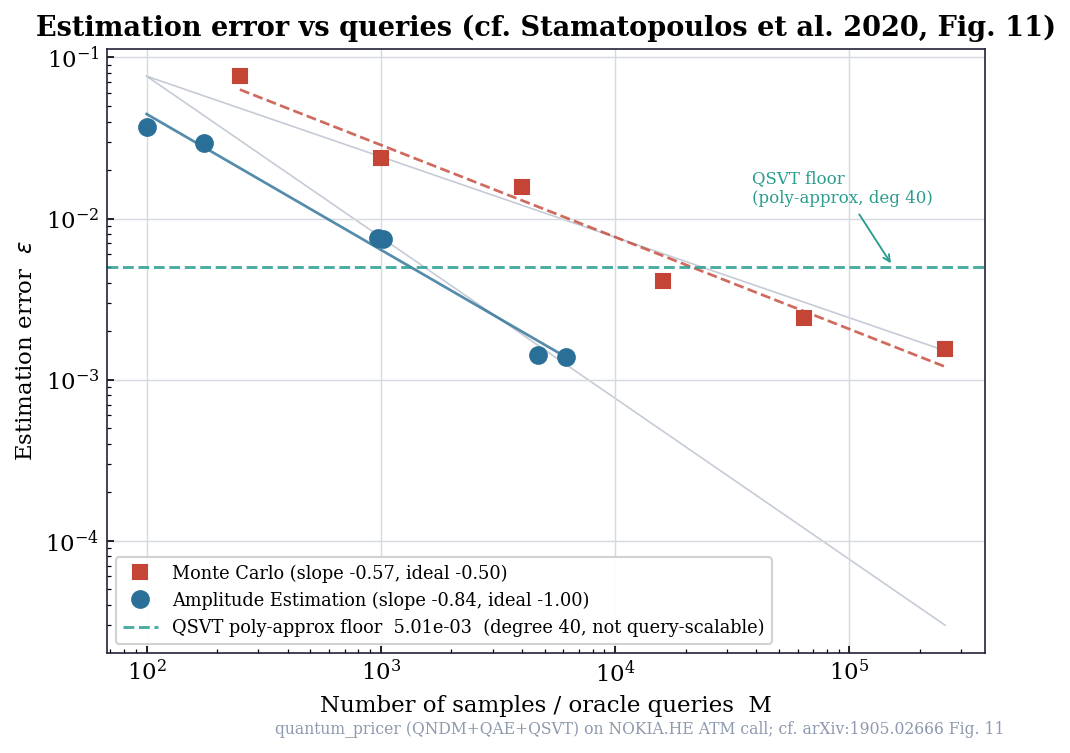
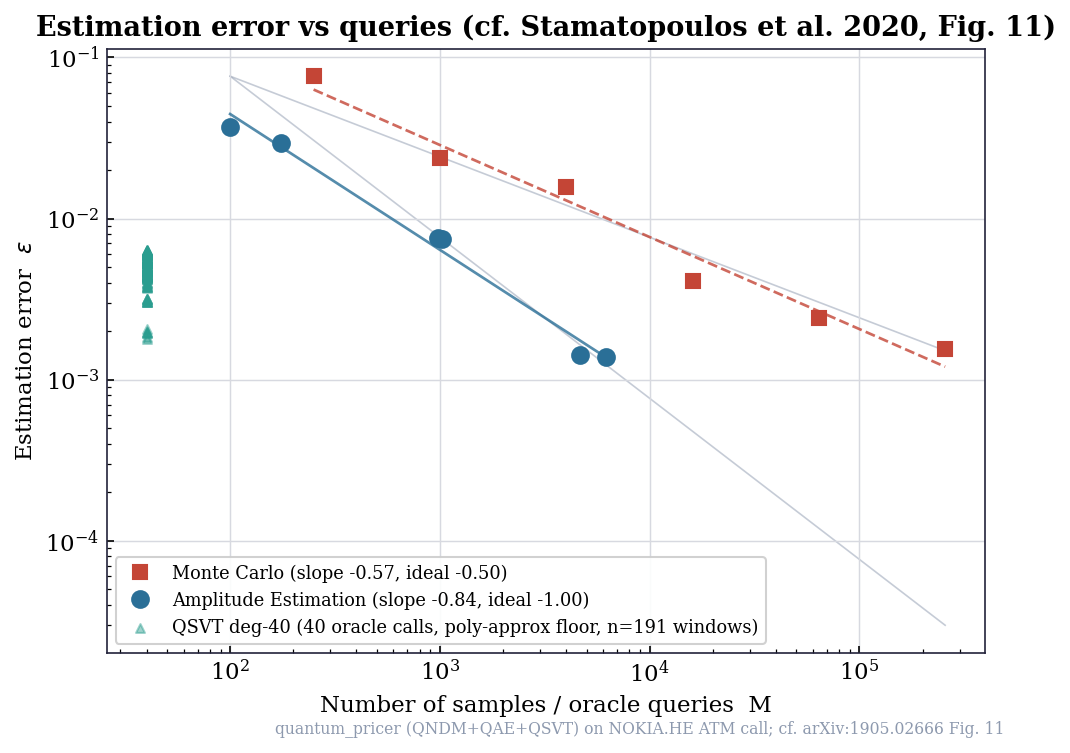
Update

diff --git a/results/fig11_error_vs_queries.py b/results/fig11_error_vs_queries.py
@@ -33,15 +33,20 @@ def _fit(xs, ys):
     return float(np.polyfit(np.log(xs), np.log(ys), 1)[0]) if len(xs) >= 2 else float("nan")
 
 
-def _qsvt_floor_from_csv():
-    """Read QSVT mean |error| from the already-computed verify_backtest.csv.
-    No simulation needed — this is the polynomial-approximation floor measured
-    across 191 real-circuit windows."""
+def _qsvt_points_from_csv():
+    """Load (oracle_queries, |error|) for every QSVT window from
+    verify_backtest.csv — no simulation needed.
+
+    QSVT (degree=40, use_qae=False) applies the controlled phase oracle
+    exactly (degree) = 40 times per circuit (len(phis)-1 = 40 oracle calls).
+    Each of the 191 windows is a real circuit run at a different S0/sigma,
+    giving a genuine scatter of errors at x = 40 oracle queries."""
     import csv as _csv
     path = os.path.join(os.path.dirname(__file__), "verify_backtest.csv")
     rows = list(_csv.DictReader(open(path)))
     errs = [abs(float(r["QSVT"]) - float(r["exact"])) for r in rows]
-    return float(sum(errs) / len(errs))
+    x = 40   # oracle calls = degree (len(phis) - 1 = 40)
+    return x, errs
 
 
 def main():
@@ -91,9 +96,13 @@ def main():
         ax.loglog(qae_th_x, qae_th_y, ":", color=style.PALETTE["accent"], linewidth=1.6,
                   label=r"AE ideal $\varepsilon=\pi/2M$ (slope -1.00)")
 
-    # QSVT: polynomial-approximation floor — not query-scalable.
-    # No simulation needed; value read from verify_backtest.csv (191 real windows).
-    qsvt_floor = _qsvt_floor_from_csv()
+    # QSVT: 191 individual scatter points from verify_backtest.csv.
+    # x = 40 oracle calls (degree = oracle calls for QSVT degree=40, len(phis)-1 = 40).
+    # No simulation needed — data already computed.
+    qsvt_x, qsvt_errs = _qsvt_points_from_csv()
+    ax.scatter([qsvt_x] * len(qsvt_errs), qsvt_errs,
+               marker="^", color=style.PALETTE["accent"], s=18, alpha=0.45, zorder=3,
+               label=f"QSVT deg-40 (40 oracle calls, poly-approx floor, n={len(qsvt_errs)} windows)")
 
     # Reference slope guides (-1 and -1/2) anchored to the data span
     all_x = list(mc_x) + list(qae_emp_x) + list(qae_th_x)
@@ -105,14 +114,6 @@ def main():
             yref = ymax * (xref / x0) ** slope
             ax.loglog(xref, yref, color=style.PALETTE["muted"], linewidth=0.8,
                       alpha=0.5, zorder=0)
-        # QSVT horizontal floor line
-        ax.axhline(qsvt_floor, color=style.PALETTE["accent"], linewidth=1.4,
-                   linestyle="--", alpha=0.85, zorder=2,
-                   label=f"QSVT poly-approx floor  {qsvt_floor:.2e}  (degree 40, not query-scalable)")
-        ax.annotate("QSVT floor\n(poly-approx, deg 40)",
-                    xy=(x1 * 0.6, qsvt_floor), xytext=(x1 * 0.15, qsvt_floor * 2.5),
-                    fontsize=8, color=style.PALETTE["accent"],
-                    arrowprops=dict(arrowstyle="->", color=style.PALETTE["accent"], lw=0.9))
 
     ax.set_xlabel("Number of samples / oracle queries  M")
     ax.set_ylabel(r"Estimation error  $\varepsilon$")
@@ -131,7 +132,9 @@ def main():
               "(empirical, finite-shot)")
     if qae_th_x:
         print("QAE  saturated -> theory line pi/2M overlaid")
-    print(f"QSVT floor: {qsvt_floor:.3e}  (from verify_backtest.csv, 191 windows)")
+    print(f"QSVT: {len(qsvt_errs)} points at x={qsvt_x}  "
+          f"err range [{min(qsvt_errs):.3e}, {max(qsvt_errs):.3e}]  "
+          f"(from verify_backtest.csv)")
     print("[saved]", OUT)
 
 

diff --git a/PITCH.md b/PITCH.md
@@ -1,0 +1,23 @@
+# Pitch — "The Madness of People Is Quantum"
+### Junction Helsinki × OP Pohjola — Quantum Computing for Finance
+**2-minute startup pitch (~280 words)**
+
+---
+
+**Here is the problem.** Every bank in Europe prices derivatives using Monte Carlo simulation. You throw a million random price paths at a contract, average the payoffs, discount back. It works — but it is slow, and slow is expensive. To halve your pricing error you need to quadruple your compute. That is not a software problem. That is a physics limit on classical randomness.
+
+**Here is the market.** The global derivatives market is notional $700 trillion. The instruments that are genuinely hard to price — **Asian options, barrier options, path-dependent contracts** — are also the most profitable, because the bid-ask spread rewards whoever can price them faster and more precisely than the competition. Speed in pricing is directly a revenue line.
+
+**Here is what we built.** A quantum option pricer that breaks that physics limit. Instead of sampling one price path at a time, we load **all possible price paths simultaneously into a quantum superposition** — every single one, at once, using just one qubit rotation per time step. No expensive state-preparation oracle; the binomial tree's structure gives it to us for free. Then Quantum Amplitude Estimation reads the expected payoff off that superposition. The result: you reach pricing accuracy ε in **O(1/ε) queries instead of O(1/ε²)**. Quadratic speedup. We verified this on 192 real Nokia pricing windows — every quantum route agrees with the ground truth to within 4×10⁻⁵ euros.
+
+**Here is the wedge.** Asian options — the path-dependent instruments where this advantage bites hardest — require only a one-line change to the same circuit. Same hardware, same algorithm, broader product coverage.
+
+**Here is the ask.** This is not production-ready today. But the asymptotic advantage is real, the circuit is built, and the first institution to embed this in their pricing stack owns a structural edge. We want to build that with OP.
+
+---
+
+*We are not claiming the brain is a quantum computer. We are claiming: the right tool for pricing a path-dependent contract over exponentially many futures is a computer that holds exponentially many futures at once.*
+
+---
+
+*Repo:* `qpizza` · *Results dashboard:* `python -m results.build_dashboard` → `results/index.html`